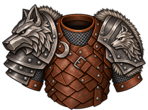
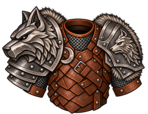
Enlarge Moonfang sculpted wolf head on the first plated design

diff --git a/tests/direwolf-crafting.test.js b/tests/direwolf-crafting.test.js
@@ -118,7 +118,7 @@ test('the craft-only item stays out of normal stock and recipe copy describes ev
 });
 test('transparent icon and worn layers are packaged, aligned and available offline for ordinary/named armor', async () => {
   const cache = new Set(await listOfflineAssets());
-  for (const [name, width, height] of [['icon', 140, 280], ['portrait', 148, 110]]) {
+  for (const [name, width, height] of [['icon', 140, 280], ['portrait', 148, 114]]) {
     const path = `./assets/direwolf-moonfang/${name}.png`; const png = decodePng(readFileSync(new URL('../' + path, import.meta.url)));
     assert.deepEqual([png.width, png.height], [width, height]); assert.equal(png.rgba[3], 0);
     let transparent = 0, visible = 0; for (let i = 3; i < png.rgba.length; i += 4) png.rgba[i] === 0 ? transparent++ : visible++;
@@ -126,6 +126,6 @@ test('transparent icon and worn layers are packaged, aligned and available offli
   }
   for (const id of [MOONFANG_ID, createFamedItemId(MOONFANG_ID, 71, 7)]) {
     assert.equal(itemImage(getItem(id)), './assets/direwolf-moonfang/icon.png');
-    assert.match(portraitHTML({ name: 'Test', seed: 1 }, { armor: getItem(id) }), /data-layer="armor"[^>]*src="\.\/assets\/direwolf-moonfang\/portrait.png"[^>]*left:-26px;top:10px/);
+    assert.match(portraitHTML({ name: 'Test', seed: 1 }, { armor: getItem(id) }), /data-layer="armor"[^>]*src="\.\/assets\/direwolf-moonfang\/portrait.png"[^>]*left:-28px;top:6px/);
   }
 });

diff --git a/src/direwolf-crafting.js b/src/direwolf-crafting.js
@@ -11,7 +11,7 @@ export const MOONFANG_ITEM = Object.freeze({
 });
 export const MOONFANG_ART = Object.freeze({
   icon: './assets/direwolf-moonfang/icon.png', portrait: './assets/direwolf-moonfang/portrait.png',
-  left: -26, top: 10, width: 148, height: 110,
+  left: -28, top: 6, width: 148, height: 114,
 });
 
 // Its own saved sequence: previews, material condition, town and other recipes

diff --git a/sw.js b/sw.js
@@ -1,5 +1,5 @@
 // Generated by tools/build-cache.mjs. Do not edit by hand.
-const CACHE = "ashen-company-0b97f07c52b52639";
+const CACHE = "ashen-company-ed236b0ddd8e83c6";
 const ASSETS = [
   "./",
   "./index.html",

diff --git a/design-qa.md b/design-qa.md
@@ -1,9 +1,12 @@
 # Moonfang plated-shoulder verification
 
-Source visual truth: `/workspace/generated_images/exec-78a37fb5-5d12-4452-b196-730bc9866d25.png`.
+Source visual truth: `/workspace/generated_images/exec-fc9f58eb-8610-42f9-8aea-02b8fbd40958.png`.
 The user combined the embossed plate from the first ideation image with the
 sculpted wolf crest from the second, then requested swapped shoulders and a
-larger rounded crest. Viewer-left is the enlarged wolf-head pauldron;
+larger rounded crest. The latest refinement uses that first plated design as
+the base, enlarging the viewer-left skull by the requested approximately 20%
+and projecting it farther over the shoulder. The rejected alternative right
+shoulder revision was not packaged. Viewer-left is the enlarged wolf-head pauldron;
 viewer-right is the silver wolf relief. The original inventory icon is retained
 at the user's explicit request.
 
@@ -11,8 +14,8 @@ at the user's explicit request.
 
 The source and implementation are shown together in
 `/workspace/artifacts/moonfang-reference-comparison.png` (1100x620 viewport,
-deviceScaleFactor 1). The 1280x1280 master is cropped to 1241x916+7+201,
-aspect-preservingly resized to 106px tall and bottom-centered on a 148x110
+deviceScaleFactor 1). The 1280x1280 master is cropped to 1247x941+2+176,
+aspect-preservingly resized to 108px tall and bottom-centered on a 148x114
 transparent canvas. The comparison displays the normalized source and packaged
 sprite at twice their native size, alongside the actual Alpha composition.
 Expected downsampling is visible at that enlarged inspection scale.
@@ -44,7 +47,7 @@ No actionable P0/P1/P2 findings remain.
 
 - Typography: existing application fonts, weights, labels and wrapping retained;
   the source armor asset has no text.
-- Spacing/layout: empty neckline aligned at left-26/top10; both shoulders fit
+- Spacing/layout: empty neckline aligned at left-28/top6; both shoulders fit
   the company card and wider roster tile. No page overflow at 390px.
 - Colors: worn steel/silver, ash-grey fur and warm leather match the selected
   raster target and existing game palette.
@@ -62,8 +65,10 @@ No actionable P0/P1/P2 findings remain.
 - Fit the roster tile and inspect tablet/phone equipment screens.
 - Regenerate the offline worker and run artwork, fitting, release/offline checks.
 
-All 97 focused checks pass, including the repaired Wolf Helmet's deliberate
-render anchor; the independent imported-source anchor checks remain intact.
+All 41 focused artwork/crafting, helmet, portrait, release and offline checks
+pass for this enlargement. The preceding plated revision passed 97 focused
+checks, including the repaired Wolf Helmet’s deliberate render anchor; the
+independent imported-source anchor checks remain intact.
 Physical-device Safari is untested. A broader full-suite attempt was stopped
 while the unrelated Ashen Winter test file was still running; no complete
 full-suite result is claimed for this session.

diff --git a/docs/DIREWOLF-MOONFANG.md b/docs/DIREWOLF-MOONFANG.md
@@ -5,7 +5,9 @@ silver crescent clasp. The inventory icon keeps the original wolf-mantle design.
 The worn bust uses the selected plated reinterpretation: an enlarged sculpted
 steel wolf-head crest in a rounded domed pauldron on the **viewer’s left**, and
 a shallow silver wolf relief on a curved steel plate on the **viewer’s right**.
-Upright ash-grey fur backs both shoulders. The broad metal caps protect the
+The first rounded design’s viewer-left wolf skull is enlarged by the requested
+approximately 20%, projecting farther over the shoulder; the right relief keeps
+its shallower plate design. Upright ash-grey fur backs both shoulders. The broad metal caps protect the
 shoulders without a stretched animal muzzle beside the human face.
 Named and reforged harnesses share the same artwork.
 
@@ -90,8 +92,8 @@ restoring an external pre-attempt backup restores the earlier state.
 
 ## Artwork
 
-The inventory PNG remains 140×280, and the revised worn layer is 148×110 at
-left −26 / top 10 in the existing portrait frame. Both have alpha transparency
+The inventory PNG remains 140×280, and the revised worn layer is 148×114 at
+left −28 / top 6 in the existing portrait frame. Both have alpha transparency
 and are cached offline. A 126px Moonfang roster tile makes room for both plated
 shoulders. The equipment detail and tactical anchors keep their existing
 character size and positioning. The source manifest in `assets/direwolf-moonfang/` records the selected
